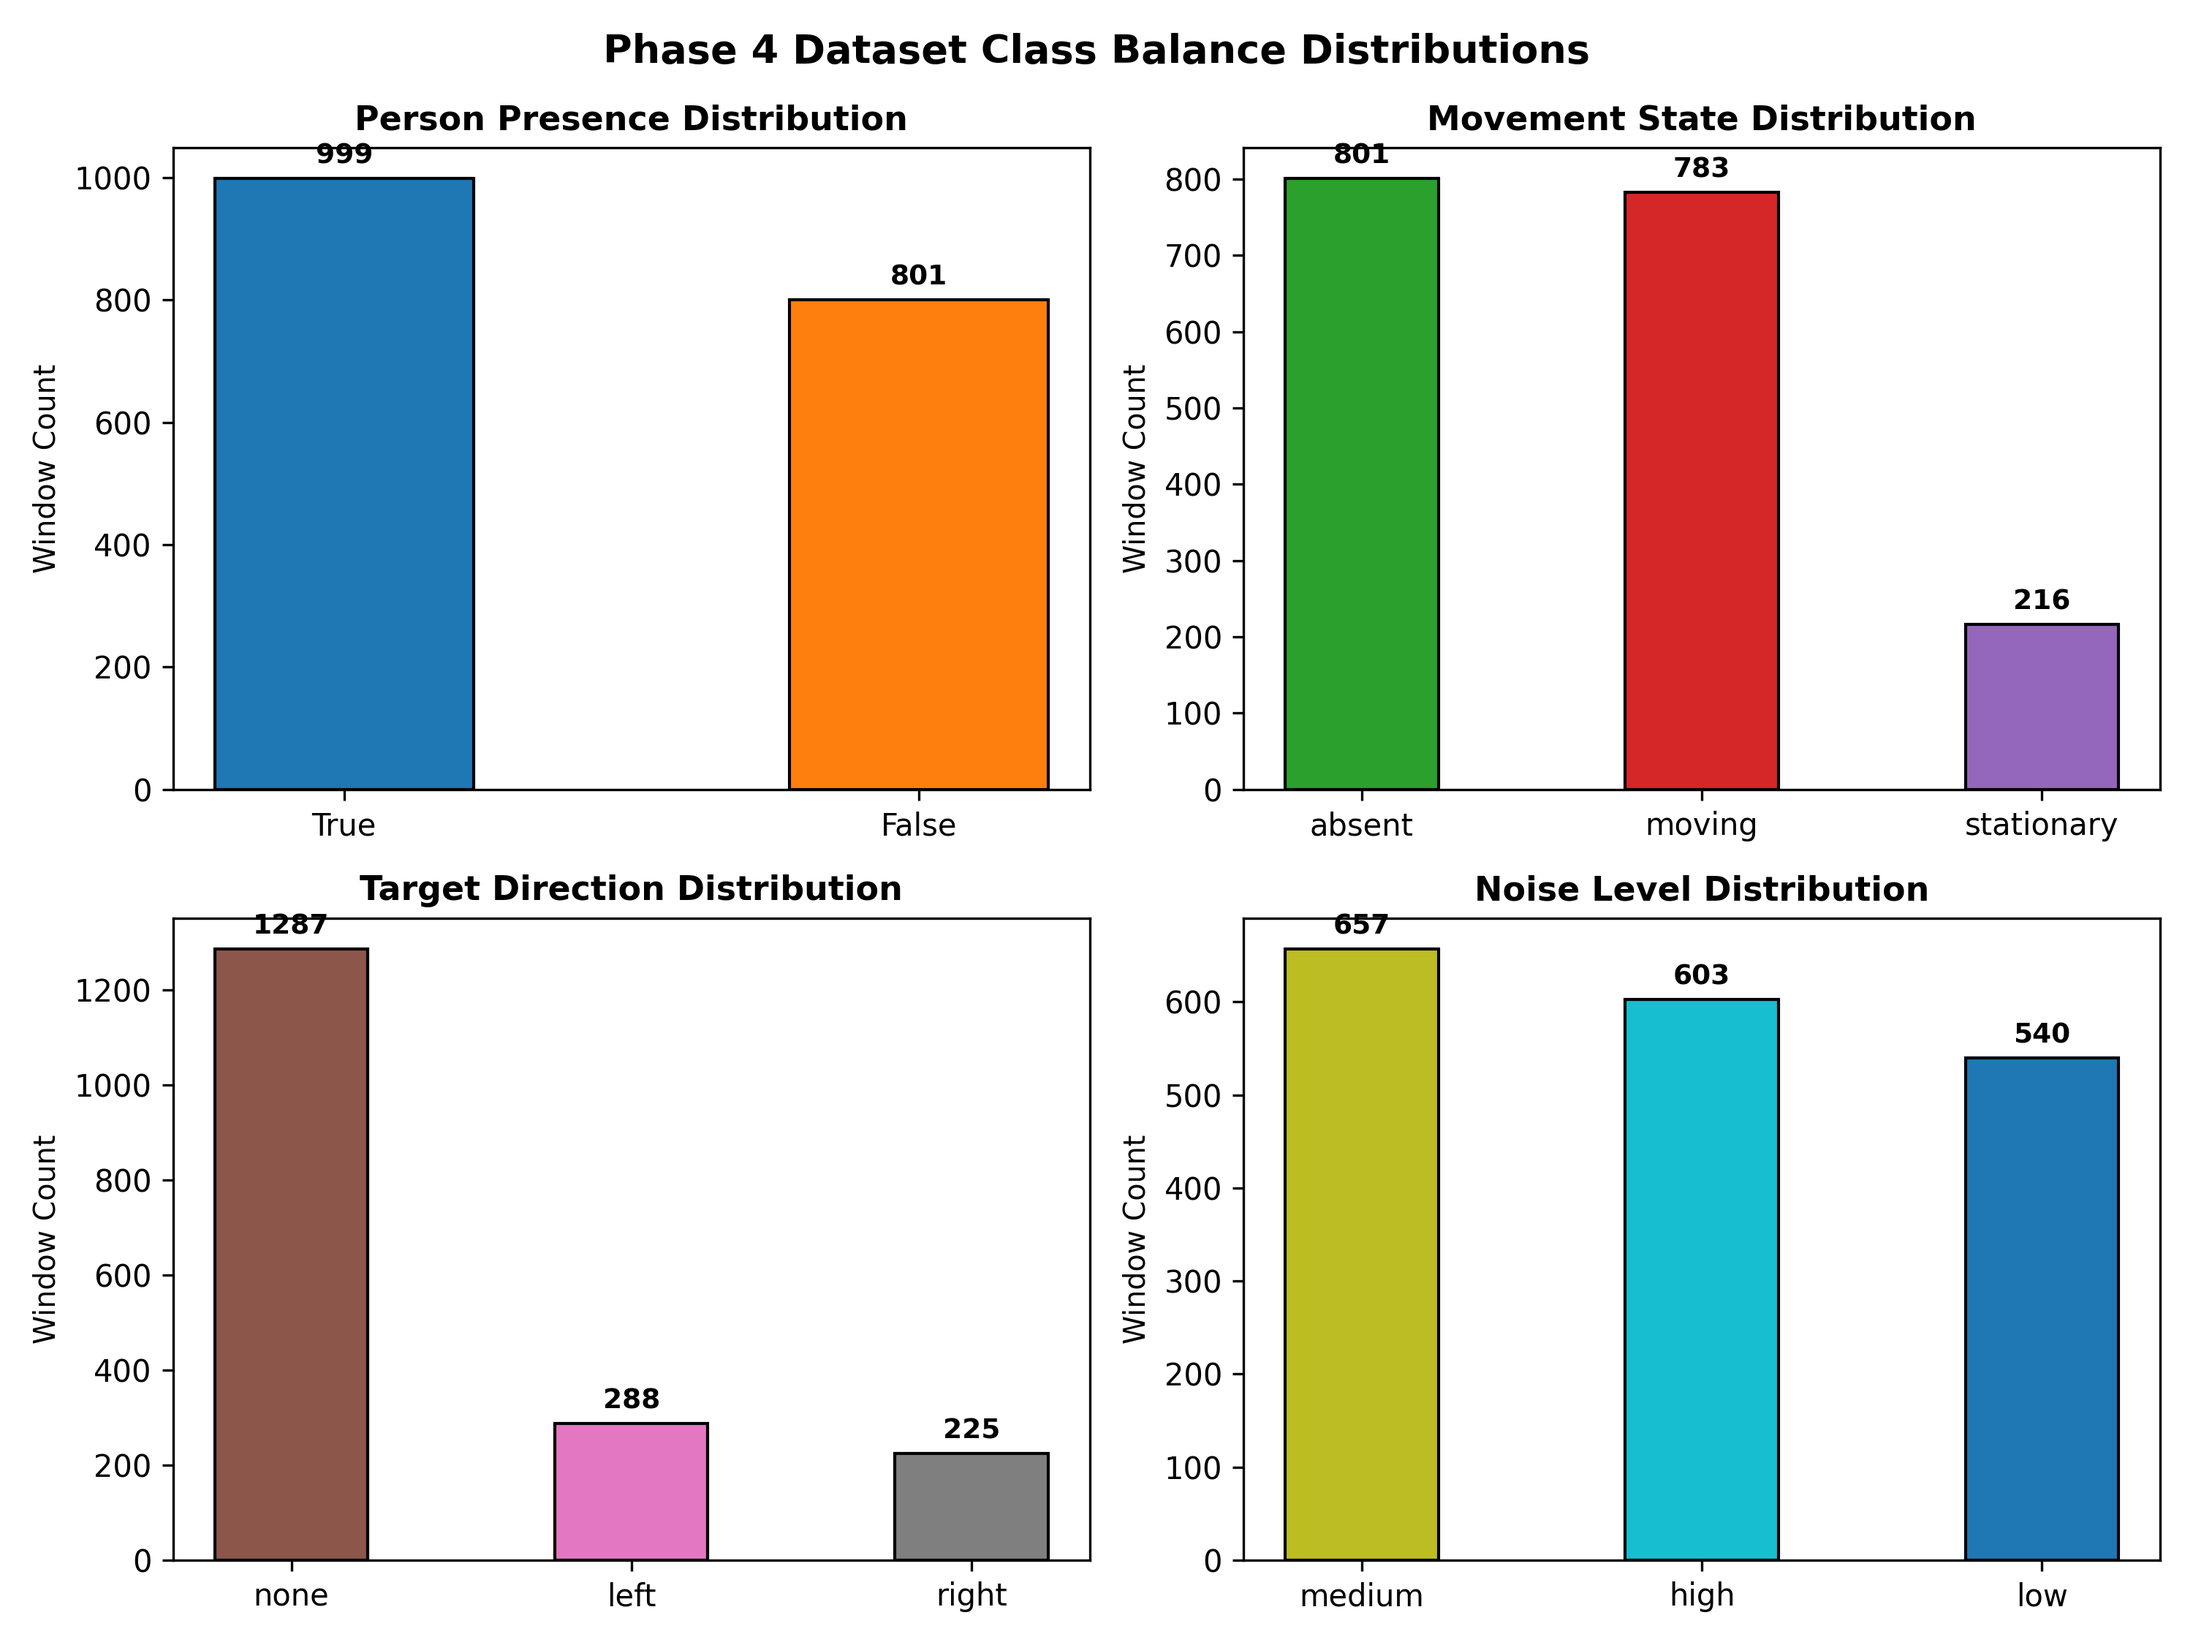
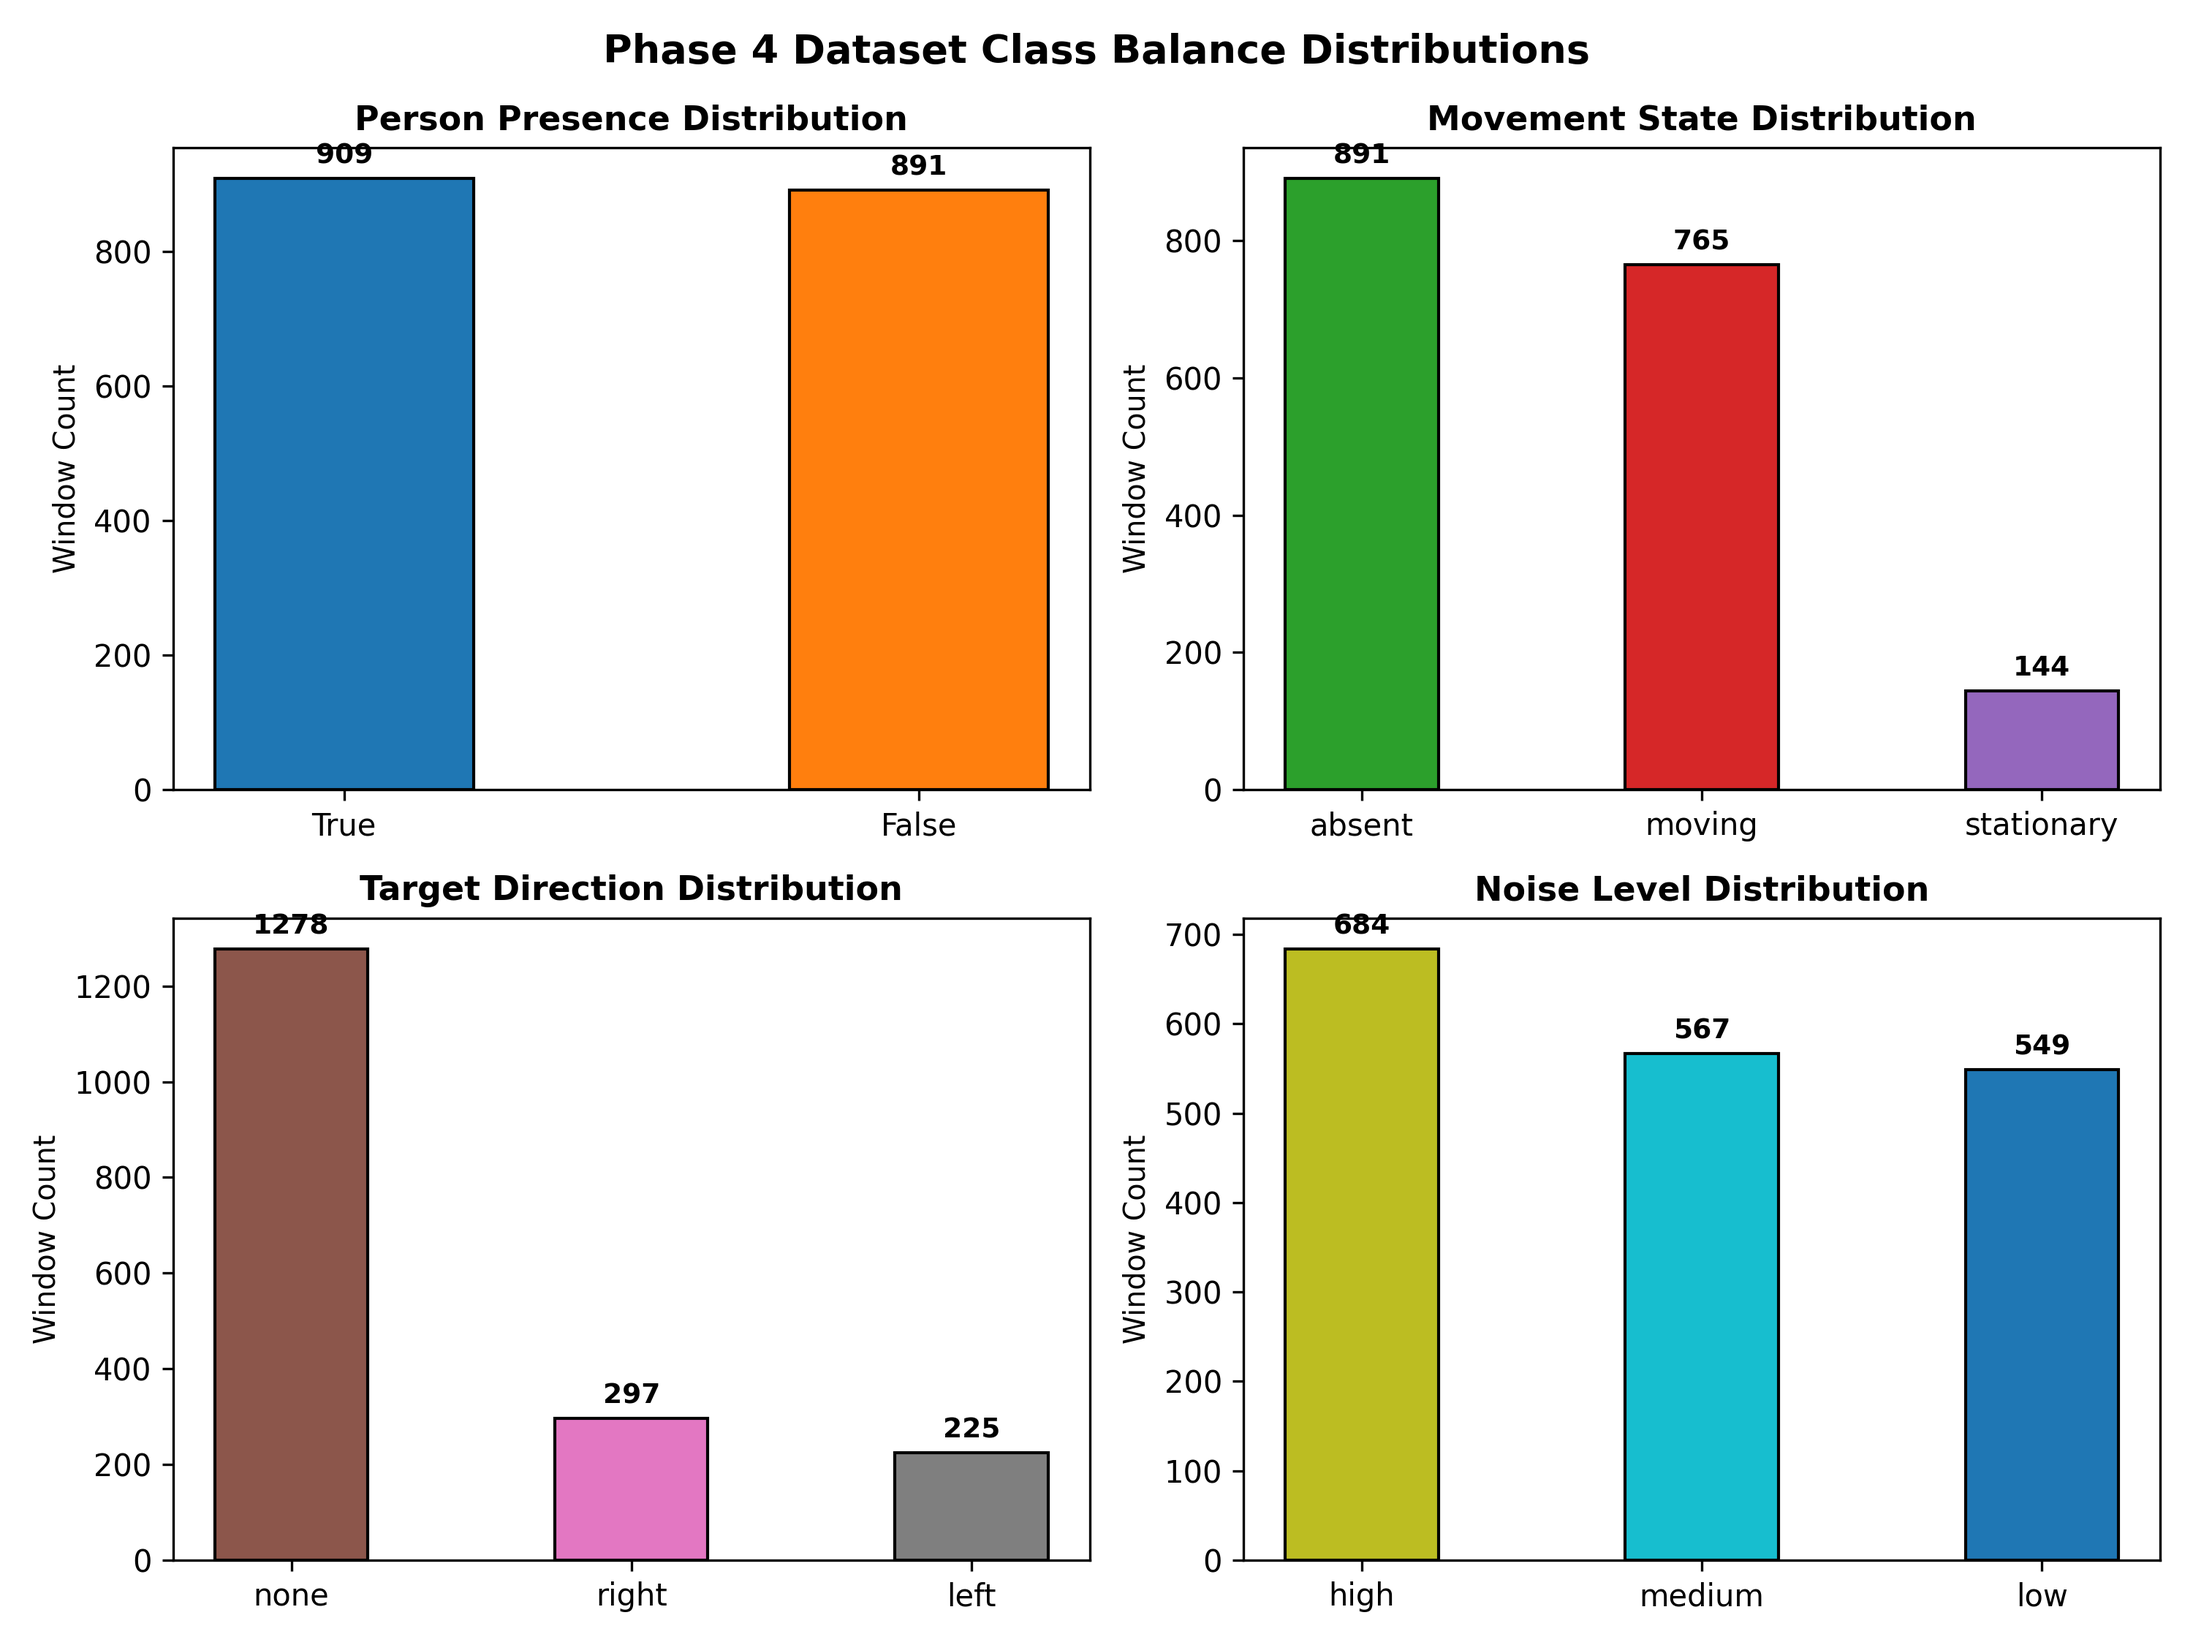
Phase 4: Dataset Generation at Scale complete with PRNG uncoupling and shortcut correlation verification

diff --git a/rf_sim/scenario.py b/rf_sim/scenario.py
@@ -40,7 +40,8 @@ class ScenarioConfig:
 def sample_scenario(scenario_id: int, seed: int = 42) -> ScenarioConfig:
     """Samples a randomized, realistic scenario configuration.
 
-    Deterministic per scenario_id using a dedicated random number generator.
+    Deterministic per scenario_id using dedicated random number generators
+    to guarantee zero PRNG stream coupling across variable retry loops.
 
     Args:
         scenario_id: Integer scenario index.
@@ -49,9 +50,10 @@ def sample_scenario(scenario_id: int, seed: int = 42) -> ScenarioConfig:
     Returns:
         ScenarioConfig: Complete scenario specification object.
     """
+    # Base scenario RNG for fixed-count parameter draws
     rng = np.random.default_rng(seed + scenario_id * 1000)
 
-    # 1. Independent categorical choices FIRST to ensure 100% uncoupled PRNG sampling
+    # 1. Independent categorical choices
     person_present = bool(rng.choice([True, False]))
     materials = ["drywall", "wood", "brick", "concrete"]
     primary_material = str(rng.choice(materials))
@@ -67,13 +69,14 @@ def sample_scenario(scenario_id: int, seed: int = 42) -> ScenarioConfig:
     width = float(rng.uniform(6.0, 12.0))
     height = float(rng.uniform(6.0, 12.0))
 
-    # 3. TX and RX positions (retried until dist >= 3.0m)
+    # 3. TX and RX positions (Dedicated sub-RNG to avoid variable loop length PRNG stream shifting)
+    dist_rng = np.random.default_rng(seed + scenario_id * 1000 + 777)
     min_tx_rx_dist = 3.0
-    for _ in range(200):
-        tx_x = float(rng.uniform(0.5, width - 0.5))
-        tx_y = float(rng.uniform(0.5, height - 0.5))
-        rx_x = float(rng.uniform(0.5, width - 0.5))
-        rx_y = float(rng.uniform(0.5, height - 0.5))
+    for _ in range(300):
+        tx_x = float(dist_rng.uniform(0.5, width - 0.5))
+        tx_y = float(dist_rng.uniform(0.5, height - 0.5))
+        rx_x = float(dist_rng.uniform(0.5, width - 0.5))
+        rx_y = float(dist_rng.uniform(0.5, height - 0.5))
         dist = math.hypot(tx_x - rx_x, tx_y - rx_y)
         if dist >= min_tx_rx_dist:
             break
